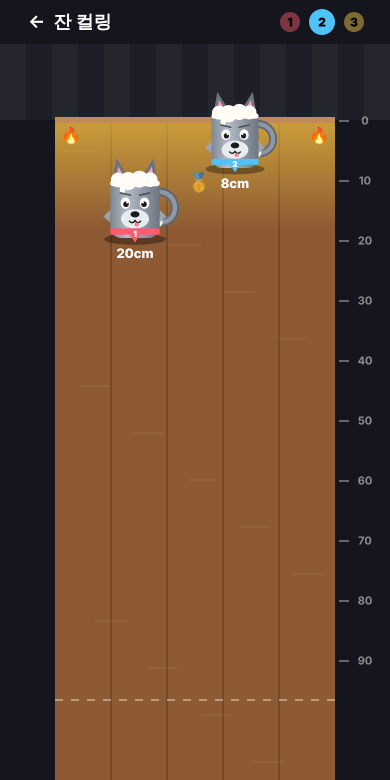
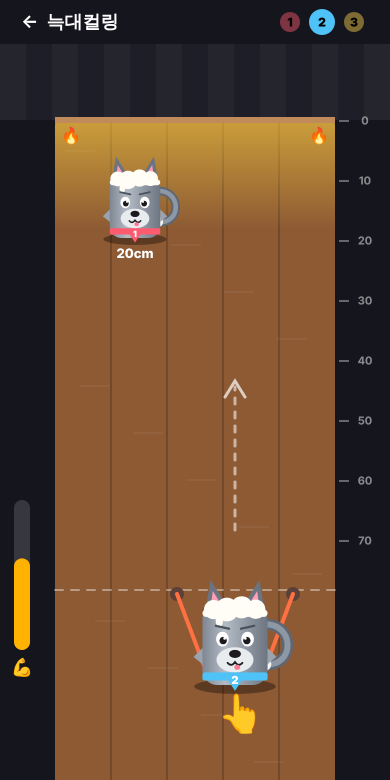
늑대컬링: 당겼다 놓기 조작 · 이름 · 규칙 확정, 시안 갱신
Claude-Session: https://claude.ai/code/session_013mN1tc9XfbmBn9GeSidaFd

diff --git a/docs/samples/curling/play.html b/docs/samples/curling/play.html
@@ -1,4 +1,4 @@
-<!doctype html><html><head><meta charset="utf-8"><meta name="viewport" content="width=device-width,initial-scale=1"><title>잔 컬링 — 늑대 맥주잔 시안</title>
+<!doctype html><html><head><meta charset="utf-8"><meta name="viewport" content="width=device-width,initial-scale=1"><title>늑대컬링 — 늑대 맥주잔 시안</title>
 <style>html,body{margin:0;background:#12121A;font-family:-apple-system,"Noto Sans KR",sans-serif}canvas{display:block;margin:0 auto}</style></head><body>
 <canvas id="c"></canvas>
 <script type="module">
@@ -7,7 +7,7 @@ const cv = document.getElementById('c'), c = cv.getContext('2d'), W = 390, H = 7
 cv.width = W * dpr; cv.height = H * dpr; cv.style.width = W + 'px'; cv.style.height = H + 'px'; c.scale(dpr, dpr);
 const ease = (u) => 1 - Math.pow(1 - Math.min(1, Math.max(0, u)), 2);
 const T = (s, x, y, size, col, w = 900, al = 'center') => { c.font = `${w} ${size}px -apple-system,"Noto Sans KR",sans-serif`; c.textAlign = al; c.textBaseline = 'middle'; c.fillStyle = col; c.fillText(s, x, y); };
-const EDGE = 120, X0 = 55, X1 = 335, START = 700, PX_CM = 6;
+const EDGE = 120, X0 = 55, X1 = 335, START = 590, PX_CM = 6;
 const P = [{ col: '#FF5A6E', n: '1' }, { col: '#4FC3F7', n: '2' }, { col: '#FFD54F', n: '3' }];
 const size = (y) => 74 * (0.7 + 0.3 * Math.min(1, Math.max(0, (y - EDGE) / (START - EDGE))));
 const cm = (y) => Math.round((y - EDGE) / PX_CM);
@@ -31,45 +31,59 @@ function table(t) {
   c.setLineDash([8, 8]); c.beginPath(); c.moveTo(X0, START); c.lineTo(X1, START); c.strokeStyle = 'rgba(255,255,255,.4)'; c.lineWidth = 2; c.stroke(); c.setLineDash([]);
 }
 function hud(cur) {
-  T('←  잔 컬링', 70, 22, 18, '#fff', 700);
+  T('←  늑대컬링', 70, 22, 18, '#fff', 700);
   P.forEach((p, i) => { const x = W - 100 + i * 32; c.beginPath(); c.arc(x, 22, i === cur ? 13 : 10, 0, 7); c.fillStyle = p.col; c.globalAlpha = i === cur ? 1 : 0.45; c.fill(); c.globalAlpha = 1; T(p.n, x, 23, 12, '#000'); });
 }
 function stopped(p, y, label = true) {
   wolfMug(c, W / 2 + (p.n === '1' ? -60 : p.n === '2' ? 40 : 0), y, size(y), p.col, p.n, 0);
   if (label) T(`${cm(y)}cm`, W / 2 + (p.n === '1' ? -60 : 40), y + 16, 13, '#fff', 800);
 }
-function swipe(u, x) { // 손가락으로 위로 튕기기
-  const fy = START + 60 - ease(u) * 120;
-  c.globalAlpha = Math.min(1, u * 4) * (1 - Math.max(0, u - 0.8) * 5);
-  c.beginPath(); c.moveTo(x, START + 70); c.lineTo(x, fy); c.strokeStyle = 'rgba(255,255,255,.5)'; c.lineWidth = 6; c.lineCap = 'round'; c.stroke();
-  T('👆', x + 10, fy + 18, 40, '#fff'); c.globalAlpha = 1;
+// 뒤로 당겼다가 놓기 (새총처럼): 당긴 길이 = 힘
+function pull(u, x, p, maxPull) {
+  const k = ease(Math.min(1, u / 0.75)), d = k * maxPull, my = START + 40 + d;
+  const strong = d / 90;
+  // 고무줄 기둥 + 줄
+  for (const sx of [-1, 1]) { c.beginPath(); c.arc(x + sx * 58, START + 4, 7, 0, 7); c.fillStyle = '#5D4037'; c.fill(); }
+  c.beginPath(); c.moveTo(x - 58, START + 4); c.lineTo(x - 26, my - 6); c.moveTo(x + 58, START + 4); c.lineTo(x + 26, my - 6);
+  c.strokeStyle = '#FF7043'; c.lineWidth = 4; c.lineCap = 'round'; c.stroke();
+  wolfMug(c, x, my, size(START), p.col, p.n, Math.sin(u * 30) * 0.3 * k);
+  // 날아갈 방향 화살표 (당길수록 길게)
+  c.setLineDash([6, 8]); c.beginPath(); c.moveTo(x, START - 60); c.lineTo(x, START - 60 - d * 2.6); c.strokeStyle = 'rgba(255,255,255,.55)'; c.lineWidth = 3; c.stroke(); c.setLineDash([]);
+  c.beginPath(); c.moveTo(x - 10, START - 50 - d * 2.6); c.lineTo(x, START - 66 - d * 2.6); c.lineTo(x + 10, START - 50 - d * 2.6); c.strokeStyle = 'rgba(255,255,255,.7)'; c.stroke();
+  // 손가락 (잔을 잡고 아래로)
+  T('👆', x + 6, my + 30, 38, '#fff');
+  // 힘 막대
+  const bx = 22, by = START + 60, bh = 150;
+  c.beginPath(); c.roundRect(bx - 8, by - bh, 16, bh, 8); c.fillStyle = 'rgba(255,255,255,.15)'; c.fill();
+  c.beginPath(); c.roundRect(bx - 8, by - bh * strong, 16, bh * strong, 8); c.fillStyle = strong > 0.85 ? '#FF3D5A' : strong > 0.5 ? '#FFB300' : '#69F0AE'; c.fill();
+  T('💪', bx, by + 18, 18, '#fff');
 }
 window.frame = (t) => {
-  t %= 8.5;
+  t %= 9.8;
   table(t);
   const Y1 = 238, Y2 = 168;
-  if (t < 3.2) { // 2번 차례: 딱 좋은 곳에 멈춤
+  if (t < 3.6) { // 2번 차례: 딱 좋은 곳에 멈춤
     hud(1); stopped(P[0], Y1);
     const x = W / 2 + 40;
-    if (t < 0.8) { wolfMug(c, x, START + 40, size(START), P[1].col, '2', 0); swipe(t / 0.8, x); }
+    if (t < 1.2) pull(t / 1.2, x, P[1], 55);
     else {
-      const u = Math.min(1, (t - 0.8) / 1.9), y = START + 40 - ease(u) * (START + 40 - Y2);
+      const u = Math.min(1, (t - 1.2) / 1.7), y0 = START + 40 + 55, y = y0 - ease(u) * (y0 - Y2);
       for (let k = 1; k < 5 && u < 1; k++) { c.globalAlpha = 0.12; wolfMug(c, x, y + k * 14 * (1 - u), size(y), P[1].col, '', 0); } c.globalAlpha = 1;
       wolfMug(c, x, y, size(y), P[1].col, '2', Math.sin(t * 22) * (1 - u));
-      if (u >= 1) { T(`${cm(Y2)}cm`, x, Y2 + 16, 13, '#fff', 800); const v = Math.min(1, (t - 2.7) / 0.3); c.globalAlpha = v; T('🥇', x - 36, Y2 + 15, 18, '#fff'); c.globalAlpha = 1; }
+      if (u >= 1) { T(`${cm(Y2)}cm`, x, Y2 + 16, 13, '#fff', 800); const v = Math.min(1, (t - 2.9) / 0.3); c.globalAlpha = v; T('🥇', x - 36, Y2 + 15, 18, '#fff'); c.globalAlpha = 1; }
     }
     return;
   }
   // 3번 차례: 너무 세게! → 떨어짐
   hud(2); stopped(P[0], Y1); stopped(P[1], Y2); T('🥇', W / 2 + 4, Y2 + 15, 18, '#fff');
-  const x = W / 2, t3 = t - 3.2;
-  if (t3 < 0.6) { wolfMug(c, x, START + 40, size(START), P[2].col, '3', 0); swipe(t3 / 0.6, x); return; }
-  const u = Math.min(1, (t3 - 0.6) / 1.0), yEnd = EDGE - 14, y = START + 40 - ease(u) * (START + 40 - yEnd);
+  const x = W / 2, t3 = t - 3.6;
+  if (t3 < 1.0) { pull(t3 / 1.0, x, P[2], 90); return; }
+  const u = Math.min(1, (t3 - 1.0) / 1.0), yEnd = EDGE - 14, y0 = START + 130, y = y0 - ease(u) * (y0 - yEnd);
   if (u < 1) {
     for (let k = 1; k < 5; k++) { c.globalAlpha = 0.12; wolfMug(c, x, y + k * 20, size(y), P[2].col, '', 0); } c.globalAlpha = 1;
     wolfMug(c, x, y, size(y), P[2].col, '3', Math.sin(t * 22)); return;
   }
-  const f = t3 - 1.6; // 넘어져서 떨어짐
+  const f = t3 - 2.0; // 넘어져서 떨어짐
   const s = size(EDGE) * Math.max(0.15, 1 - f * 0.9), rot = Math.min(1.9, f * 4);
   // 쏟아진 맥주
   if (f > 0.15) { const p = Math.min(1, (f - 0.15) / 0.5); c.beginPath(); c.ellipse(x - 10, EDGE - 40, 70 * p, 18 * p, 0, 0, 7); c.fillStyle = 'rgba(255,179,0,.75)'; c.fill(); c.beginPath(); c.ellipse(x - 30, EDGE - 46, 40 * p, 8 * p, 0, 0, 7); c.fillStyle = 'rgba(255,253,245,.8)'; c.fill(); }

diff --git a/docs/BACKLOG.md b/docs/BACKLOG.md
@@ -349,11 +349,13 @@
 - 돌아가며 선 하나씩 ✂ 자르기. 안전하면 "휴~" 늑대, 진짜 선이면 💥 펑 + 헤롱헤롱 늑대 → 원샷
 - 자를 때마다 폭탄 타이머 숫자가 빨라지는 연출
 
-## 🍺 [⚡ 순발력게임] 잔 컬링 (2026-11-03 메모, 시안 `docs/samples/curling/` — `curling.gif` · `wolfmug.png`, 글 없이 하는 게임)
-- 길쭉한 나무 테이블 맨 아래 출발선에서 **늑대 모양 맥주잔**을 손가락으로 위로 튕김 (튕긴 속도 = 미끄러지는 힘, 마찰로 점점 느려짐)
+## 🍺 [⚡ 순발력게임] 늑대컬링 (2026-11-03 메모, 시안 `docs/samples/curling/` — `curling.gif` · `wolfmug.png`, 글 없이 하는 게임)
+- 이름: **늑대컬링** (2026-11-03 사용자 확정)
+- 조작: 출발선의 **늑대 맥주잔을 뒤로(아래로) 당겼다가 놓으면** 새총처럼 앞으로 나감 (2026-11-03 사용자 확정)
+  - 당긴 길이 = 힘. 고무줄 + 날아갈 방향 점선 화살표 + 💪 힘 막대(초록 → 노랑 → 빨강)
+  - 놓으면 테이블 위를 미끄러지다 마찰로 점점 느려짐
 - 테이블 끝에 가까울수록 좋음 (끝 쪽 🔥 금색 띠, 옆에 cm 자). 끝을 넘으면 잔이 넘어지면서 💦 떨어짐
 - 늑대 맥주잔: 회색 도자기 잔 + 뾰족 귀 사이로 거품 넘침 + 늑대 얼굴 + 손잡이는 말린 꼬리 + 목에 사람 색 두건(숫자)
-- 2~6명이 돌아가며 한 번씩. 앞사람 잔은 멈춘 자리에 그대로 (cm 표시). 다 던지면 순위: 🥇 제일 가까운 사람 · 💦 떨어지거나 제일 먼 사람 → 💀 원샷
-- 미정 — 괄호는 Claude 기본안
-  - [ ] 잔끼리 부딪히기 (기본안: 첫 버전은 안 부딪힘, 반응 좋으면 다음에 추가)
-  - [ ] 벌칙: 떨어진 사람 전부 vs 제일 먼 사람 1명 (기본안: 떨어진 사람 전부, 없으면 제일 먼 사람)
+- 2~6명이 돌아가며 한 번씩. 앞사람 잔은 멈춘 자리에 그대로 (cm 표시). 다 던지면 순위: 🥇 제일 가까운 사람
+- [x] 잔끼리 **안 부딪힘** (2026-11-03 사용자 확정)
+- [x] 벌칙: **떨어진 사람 전부** 💀 원샷, 아무도 안 떨어졌으면 **제일 먼 사람** (2026-11-03 사용자 확정)
